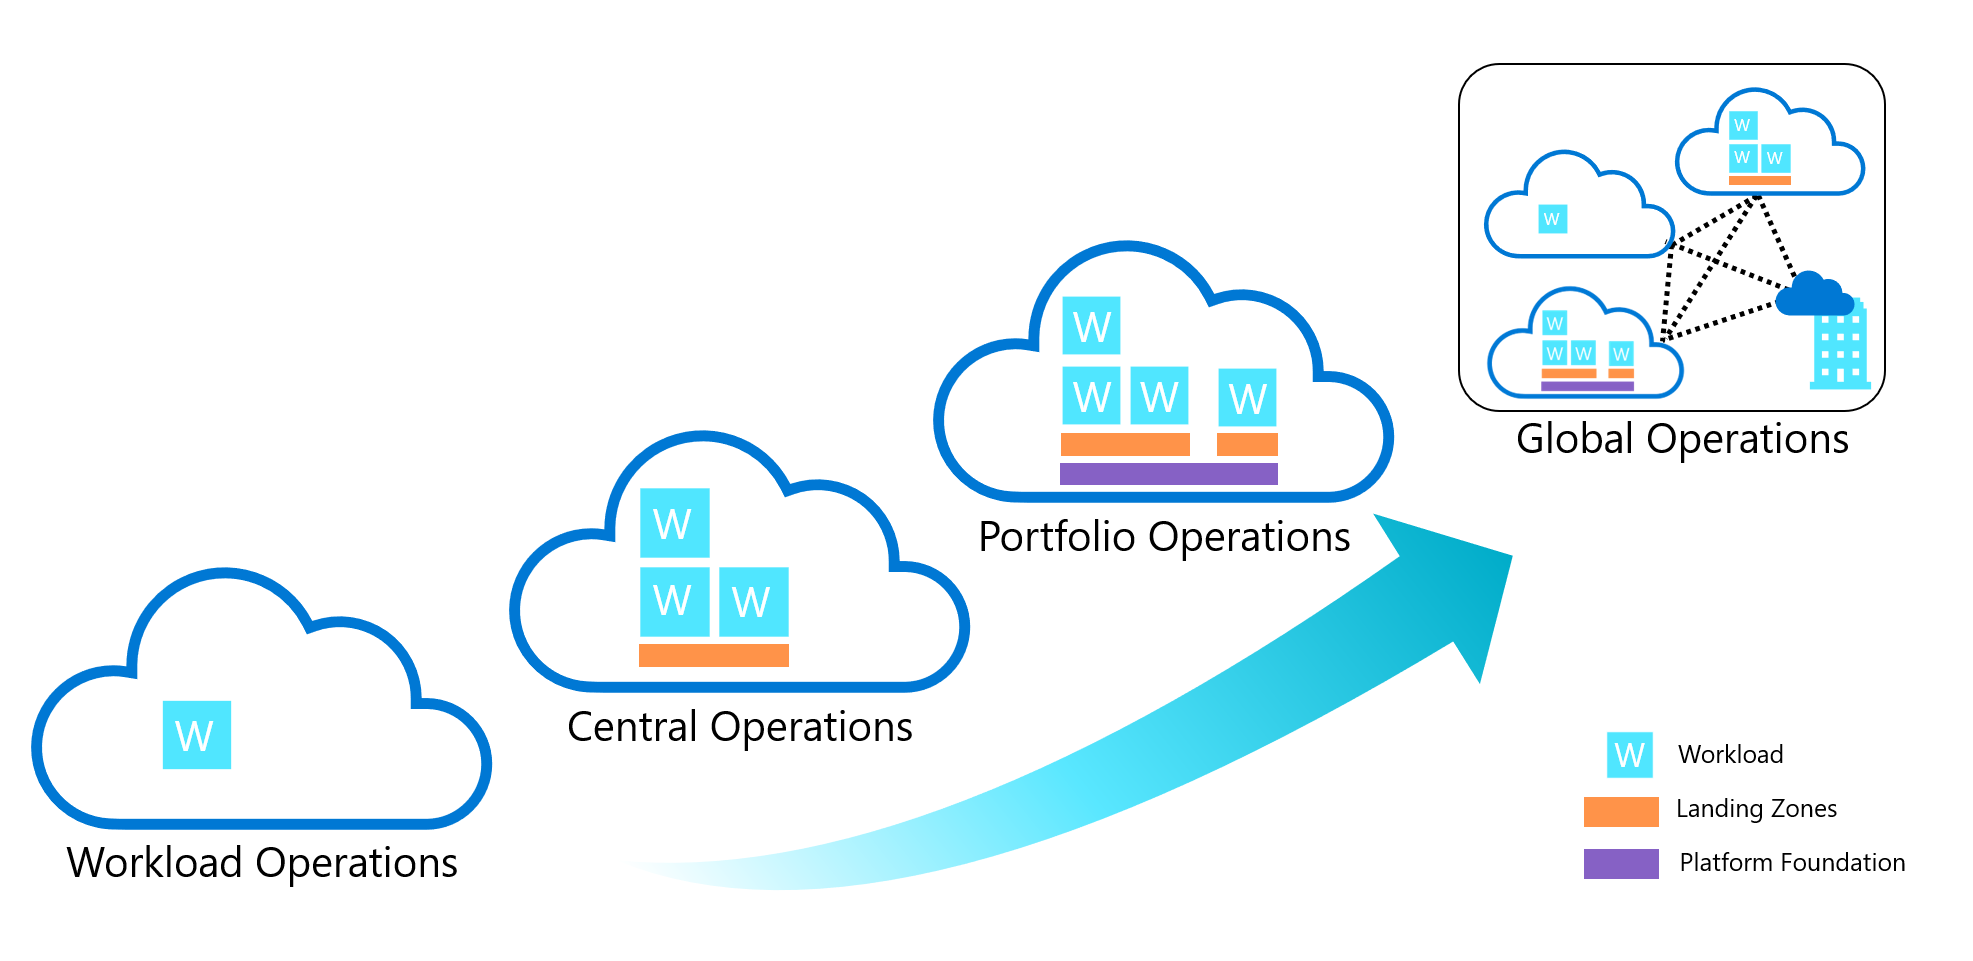
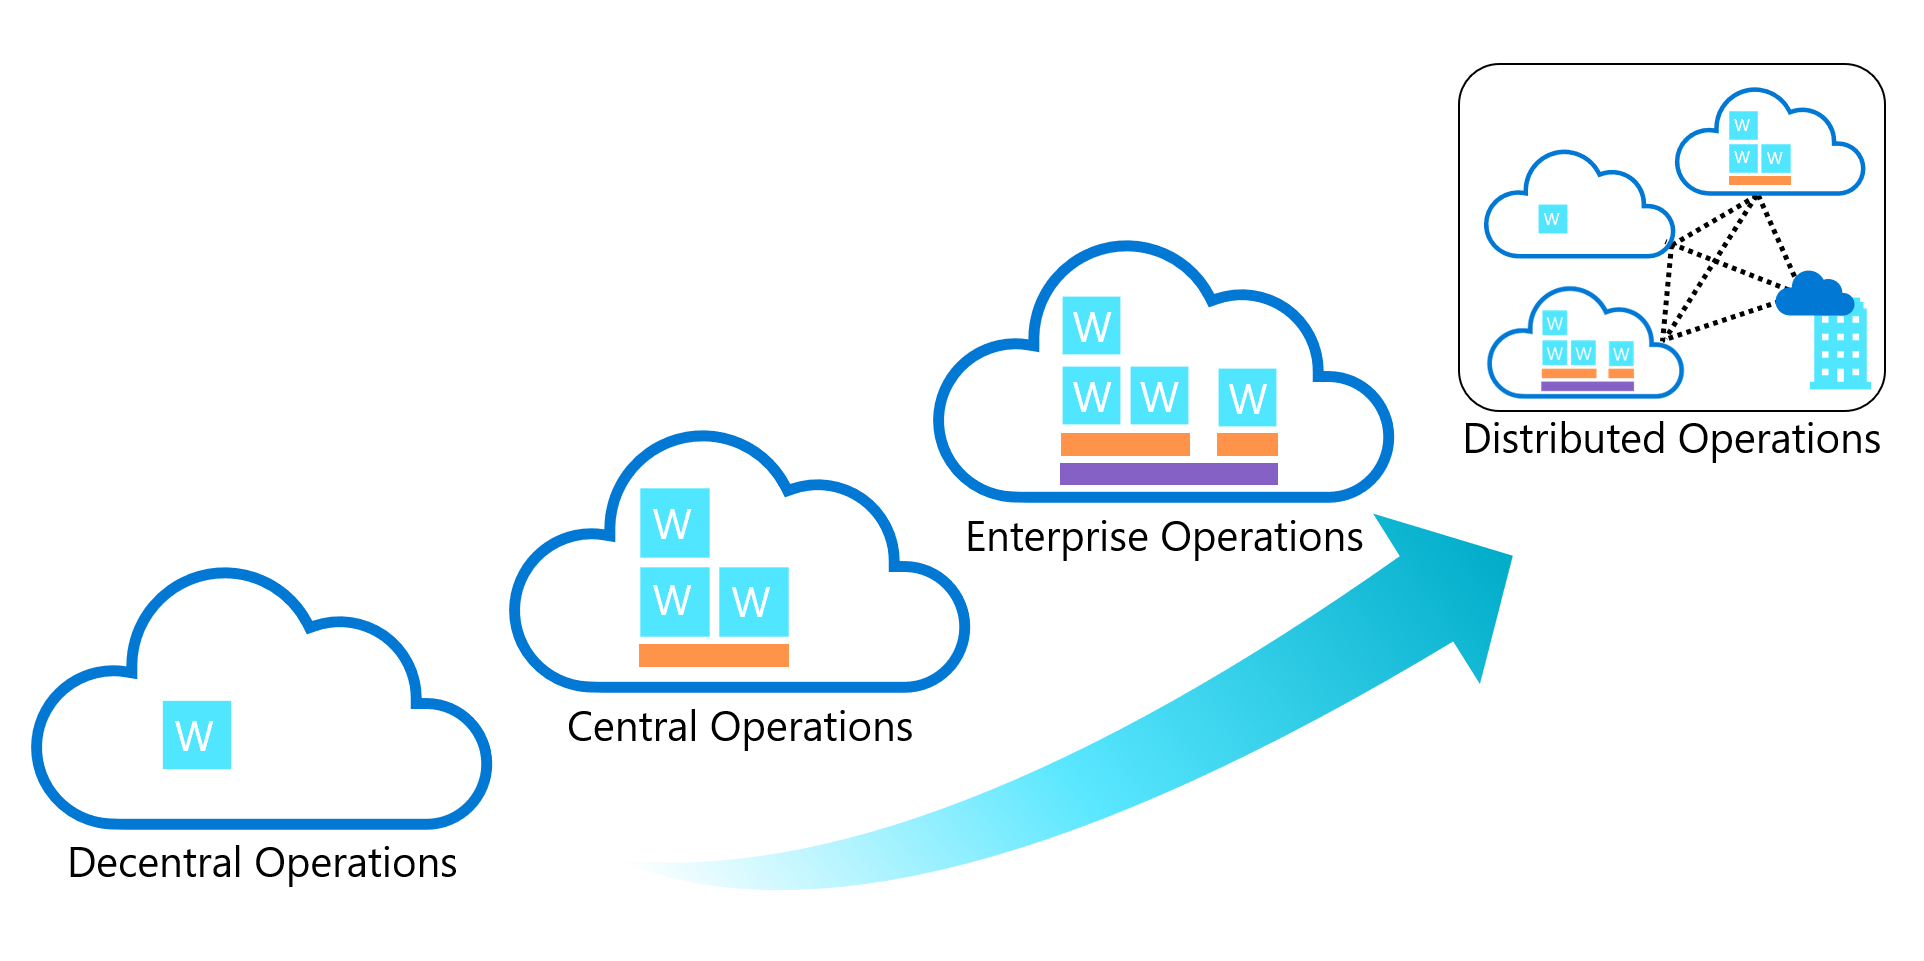
compare models

diff --git a/docs/operating-model/compare-common-operating-models.md b/docs/operating-model/compare-common-operating-models.md
@@ -1,0 +1,140 @@
+---
+title: "Review common examples of cloud operating models"
+description: See how other companies have implemented their cloud operating model & what guidance can support your efforts.
+author: BrianBlanchard
+ms.author: brblanch
+ms.date: 07/20/2020
+ms.topic: conceptual
+ms.service: cloud-adoption-framework
+ms.subservice: overview
+ms.custom: operating-model
+---
+
+# Common cloud operating models
+
+Operating models are unique and personal to the business they support, based on their current requirements and constraints. But, this uniqueness shouldn't suggest that operating models are "snowflakes". There are a few common patterns among customer operating models. This article outlines the four most common patterns.
+
+## Operating model comparison
+
+The following image maps common operating models based on the range of complexity from least complex (decentralized) to most complex (global operations). The tables below compares the same operating models based on relative value of a few other attributes.
+
+![Degrees of operating model complexity](../_images/operating-model/operating-model-complexity.png)
+
+### Priorities or Scope
+
+Cloud operating model is primarily driven by two factors: Strategic priorities (or motivations) and the scope of the portfolio to be managed.
+
+Strategic priorities or motivations: Each operating model is capable of delivering the typical [strategic motivations for cloud adoption](../strategy/motivations.md). However, some operating models tend to make it a little easier to realize some specific motivations.
+
+[Portfolio Scope](../reference/fundamental-concepts/hosting-hierarchy.md): The portfolio scope row below identifies the largest scope that a specific operating model is designed to support. Example: Centralized operations is designed for a small number of landing zones. But that operating model decision could inject operational risks for an organization which is attempting to manage a large, complex portfolio which could require a large number of landing zones or variable complexity in landing sone design.
+
+||Decentralized  |Centralized  |Enterprise          |Complex|
+|---------              |---------      |---------    |---------          |---------|
+|Strategic priority|Innovation|Control|Democratization|Integration|
+|Portfolio scope|Workload|Landing zone |Cloud Platform|Full Portfolio|
+|Workload environment|High complexity|Low complexity|Medium complexity|Medium or variable complexity|
+|Landing zone|N/A|High complexity|Medium to Low complexity|Low complexity|
+|Foundation utilities|N/A|N/A or Low support|Centralized & more support|Most support|
+|Cloud foundation|N/A|N/A|Hybrid, provider specific, or regional foundations|Distributed and synchronized|
+
+### Accountability alignment
+
+Many teams and individuals will be responsible for supporting different functions. But each of the common operating models focuses final accountability for decisions and their outcomes on one team or one individual. This impacts how the operating model is funded & what level of support is provided for each function.
+
+||Decentralized  |Centralized  |Enterprise          |Complex|
+|---------              |---------      |---------    |---------          |---------|
+|Business alignment|[Workload team](../organize/cloud-adoption.md)|[Central Cloud strategy](../organize/cloud-strategy.md)|[CCoE](../organize/cloud-center-of-excellence.md)|Variable - [Form a broad cloud strategy team?](../get-started/team/cloud-strategy.md)|
+|[Cloud operations](../organize/cloud-operations.md)|[Workload team](../organize/cloud-adoption.md)|[Central IT](../organize/central-it.md)|[CCoE](../organize/cloud-center-of-excellence.md)|Based on portfolio analysis - See [Business Alignment](../manage/considerations/business-alignment.md) and [Business commitments](../manage/considerations/commitment.md)|
+|[Cloud governance](../organize/cloud-governance.md)|[Workload team](../organize/cloud-adoption.md)|[Central IT](../organize/central-it.md)|[CCoE](../organize/cloud-center-of-excellence.md)|[Multiple layers of governance](../govern/guides/complex/multiple-layers-of-governance.md)|
+|[Cloud security](../organize/cloud-security.md)|[Workload team](../organize/cloud-adoption.md)|[Security Operations Center (SOC)](../organize/cloud-security-operations-center.md)|[CCoE](../organize/cloud-center-of-excellence.md) + [SOC](../organize/cloud-security-operations-center.md)|Mixed - See [Define a security strategy](../strategy/define-security-strategy.md)|
+|[Cloud automation & devops](../organize/cloud-automation.md)|[Workload team](../organize/cloud-adoption.md)|[Central IT](../organize/central-it.md) or N/A|[CCoE](../organize/cloud-center-of-excellence.md)|Based on portfolio analysis - See [Business Alignment](../manage/considerations/business-alignment.md) and [Business commitments](../manage/considerations/commitment.md)|
+
+### Accelerate operating model implementation in Azure
+
+As described in the prior article in this series, [Defining your operating model](./methodologies.md), each methodology in the cloud adoption framework provides a structured path to iteratively developing each aspect of your operating model. Following the most relevant methodology will help you overcome blockers to adoption that stem from gaps in the cloud operating model.
+
+But there are ways to accelerate your operating model implementation, as outlined in the table below.
+
+||Decentralized  |Centralized  |Enterprise          |Complex|
+|---------              |---------      |---------    |---------          |---------|
+|Starting point|[Well-Architected Framework (WAF)](/azure/architecture/framework/)|Azure landing zones: [Start Small options](../ready/landing-zone/implementation-options.md)|Azure landing zones: [CAF enterprise-scale](../ready/enterprise-scale/implementation.md)|[Business Alignment](../manage/considerations/business-alignment.md)|
+|Iterations|A focus on workloads will allow the team to iterate within WAF|The start small option will require additional iteration on each methodology, but that can be done as cloud adoption efforts mature.|As illustrated by the reference implementations, future iterations will typical focus on minor configuration additions|After a portfolio review consider following the paths for centralized operations or enterprise operations, based on the most common needs across the portfolio.|
+
+> [!WARNING]
+> Below is a potential TODO. First, we will solicit feedback on the operating model comparison tables above to see if that is sufficient
+
+## Decentralized operations
+
+![Decentralized operations](../_images/operating-model/decentralized-operations.png)
+
+Operations is always complex. But, by limiting the scope of operations to one workload or a small collections of workloads, that complexity can be controlled. As such, decentralized operations is the least complex of the common operating models. In this form of operations, all workloads are operated independently by dedicated workload teams.
+
+**Advantages:**
+
+- Cost of operations can be easily mapped to the a single business unit.
+- Decisions that impact operations are only concerned with the needs of that workload.
+- Many in the devops community would argue that this is the purest form of operations because of the tighter operational scope.
+- Typically, this form of operations is highly dependent on automation to minimize overhead. This allows for faster deployments and shorter feedback cycles during development.
+- Since there are no dependencies on other workloads or central operations, this operating model could reduce barriers to innovation.
+
+**Disadvantages:**
+
+- Lack of centralized supporting teams means that the workload team is entirely responsible for governance, security, operations, and change management.
+- Since the workload team is less likely to have specialized teams dedicated to central IT functions, this operating model is viewed as a high risk option by some organizations, especially companies which are required to follow 3rd party compliance requirements.
+- At scale, it can also be a costly model, since each workload would likely have duplication in deployed assets and staffing assignments.
+
+**Guidance:** Decentralized operations are limited to workload level decisions. The Microsoft Azure Well-Architected Framework is designed to support the decisions made within that scope. The processes and guidance within the Cloud Adoption Framework are likely to add overhead that are not required by decentralized operations.
+
+## Centralized operations
+
+![Centralized operations](../_images/operating-model/centralized-operations.png)
+
+TODO Summary, Pros, Cons, Guidance
+
+
+**Advantages:**
+
+- 
+
+**Disadvantages:**
+
+- 
+
+**Guidance:** 
+
+## Enterprise operations
+
+![Enterprise operations](../_images/operating-model/enterprise-operations.png)
+
+TODO Summary, Pros, Cons, Guidance
+
+
+**Advantages:**
+
+- 
+
+**Disadvantages:**
+
+- 
+
+**Guidance:** 
+
+## Distributed operations
+
+![Distributed operations](../_images/operating-model/distributed-operations.png)
+
+TODO Summary, Pros, Cons, Guidance
+
+**Advantages:**
+
+- 
+
+**Disadvantages:**
+
+- 
+
+**Guidance:** 
+
+## Next steps
+
+TODO: Next Steps

diff --git a/docs/organize/organization-structures.md b/docs/organize/organization-structures.md
@@ -43,12 +43,16 @@ Most companies start with little more than a _cloud adoption team_. But we recom
 
 The nucleus of all cloud adoption efforts is the cloud adoption team. This team drives the technical changes that enable adoption. Depending on the objectives of the adoption effort, this team may include a diverse range of team members who handle a broad set of technical and business tasks.
 
+![Cloud adoption team only](../_images/ready/org-ready-adoption-only.png)
+
 For small-scale or early-stage adoption efforts, this team might be as small as one person. In larger-scale or late-stage efforts, it's common to have several cloud adoption teams, each with around six engineers. Regardless of size or tasks, the consistent aspect of any cloud adoption team is that it provides the means to onboarding solutions into the cloud. For some organizations, this may be a sufficient organizational structure. The [cloud adoption team](./cloud-adoption.md) article provides more insight into the structure, composition, and function of the cloud adoption team.
 
 > [!WARNING]
 > Operating with **only** a cloud adoption team (or multiple cloud adoption teams) is considered an antipattern and should be avoided. At a minimum, consider the [MVP best practice](#best-practice-minimum-viable-product-mvp).
 
 ## Best practice: Minimum viable product (MVP)
+
+![Best practice: Minimum viable product organization of Adoption team and Governance team to create balance](../_images/ready/org-ready-best-practice.png)
 
 We recommend that you have two teams to create balance across cloud adoption efforts. These two teams are responsible for various functions throughout the adoption effort.
 
@@ -61,6 +65,8 @@ The following sections describe a fully staffed, proven organizational structure
 
 ## Central IT team
 
+![Central IT team](../_images/ready/org-ready-central-it.png)
+
 As adoption scales, the cloud governance team may struggle to keep pace with the flow of innovation from multiple cloud adoption teams. This is especially true in environments that have heavy compliance, operations, or security requirements. At this stage, it is common for companies to shift cloud responsibilities to an existing Central IT team. If that team can reassess tools, processes, and people to better support cloud adoption at scale, then including the central IT team can add significant value. Bringing in subject matter experts from operations, automation, security, and administration to modernize the central IT team can drive effective operational innovations.
 
 Unfortunately, the central IT team phase can be one of the riskiest phases of organizational maturity. The Central IT team must come to the table with a strong growth mindset. If the team views the cloud as an opportunity to grow and adapt, then it can provide great value throughout the process. But if the Central IT team views cloud adoption primarily as a threat to their existing model, then the Central IT team becomes an obstacle to the cloud adoption teams and the business objectives they support. Some Central IT teams have spent months or even years attempting to force the cloud into alignment with on-premises approaches, with only negative results. The cloud doesn't require that everything change within the central IT team, but it does require significant change. If resistance to change is prevalent within the Central IT team, this phase of maturity can quickly become a cultural antipattern.
@@ -69,11 +75,15 @@ Cloud adoption plans heavily focused on platform as a service (PaaS), DevOps, or
 
 ## Strategic alignment
 
+![Strategic alignment](../_images/ready/org-ready-strategy-alignment.png)
+
 As the investment in cloud adoption grows and business values are realized, business stakeholders often become more engaged. A defined cloud strategy team, as the following image illustrates, aligns those business stakeholders to maximize the value realized by cloud adoption investments.
 
 When maturity happens organically, as a result of IT-led cloud adoption efforts, strategic alignment is usually preceded by a governance or Central IT team. When cloud adoption efforts are lead by the business, the focus on operating model and organization tends to happen earlier. Whenever possible, business outcomes and the cloud strategy team should both be defined early in the process.
 
 ## Operational alignment
+
+![Operational alignment](../_images/ready/org-ready-operations-aligned.png)
 
 Realizing business value from cloud adoption efforts requires stable operations. Operations in the cloud may require new tools, processes, or skills. When stable IT operations are required to achieve business outcomes, it's important to add a defined cloud operations team, as shown here.
 
@@ -81,9 +91,11 @@ Cloud operations can be delivered by the existing IT operations roles. But it's 
 
 ## Cloud center of excellence
 
+![Cloud  Center of Excellence (CCoE)](../_images/ready/org-ready-ccoe.png)
+
 At the highest state of maturity, a cloud center of excellence aligns teams around a modern cloud-first operating model. This approach provides centralized IT functions like governance, security, platform, and automation.
 
-The primary difference between this structure and the Central IT team structure above is a focus on self-service. The teams in this structure organize with the intent of delegating control as much as possible. Aligning governance and compliance practices to cloud-native solutions creates guardrails and protection mechanisms. Unlike the Central IT team model, the cloud-native approach maximizes innovation and minimizes operational overhead. For this model to be adopted, mutual agreement to modernize IT processes will be required from business and IT leadership. This model is unlikely to occur organically and often requires executive support.
+The primary difference between this structure and the Central IT team structure above is a strong focus on self-service and democratization. The teams in this structure organize with the intent of delegating control as much as possible. Aligning governance and compliance practices to cloud-native solutions creates guardrails and protection mechanisms. Unlike the Central IT team model, the cloud-native approach maximizes innovation and minimizes operational overhead. For this model to be adopted, mutual agreement to modernize IT processes will be required from business and IT leadership. This model is unlikely to occur organically and often requires executive support.
 
 ## Next steps
 

diff --git a/docs/strategy/motivations.md b/docs/strategy/motivations.md
@@ -25,7 +25,7 @@ Business transformations that are supported by cloud adoption can be driven by v
 
 | Critical business events | Migration | Innovation |
 |---|---|---|
-| Datacenter exit <br><br> Merger, acquisition, or divestiture <br><br> Reduction in capital expenses <br><br> End of support for mission-critical technologies <br><br> Response to regulatory compliance changes <br><br> New data sovereignty requirements <br><br> Reduction of disruptions and improvement of IT stability <br><br> <br><br> | Cost savings <br><br> Reduction in vendor or technical complexity <br><br> Optimization of internal operations <br><br> Increase in business agility <br><br> Preparation for new technical capabilities <br><br> Scaling to meet market demands <br><br> Scaling to meet geographic demands <br><br> | Preparation for new technical capabilities <br><br> Building new technical capabilities <br><br> Scaling to meet market demands <br><br> Scaling to meet geographic demands <br><br> Improved customer experiences and engagements <br><br> Transformation of products or services <br><br> Market disruption with new products or services |
+| Datacenter exit <br><br> Merger, acquisition, or divestiture <br><br> Reduction in capital expenses <br><br> End of support for mission-critical technologies <br><br> Response to regulatory compliance changes <br><br> New data sovereignty requirements <br><br> Reduction of disruptions and improvement of IT stability <br><br> <br><br> | Cost savings <br><br> Reduction in vendor or technical complexity <br><br> Optimization of internal operations <br><br> Increase in business agility <br><br> Preparation for new technical capabilities <br><br> Scaling to meet market demands <br><br> Scaling to meet geographic demands <br><br> Integration of a complex IT portfolio <br><br> | Preparation for new technical capabilities <br><br> Building new technical capabilities <br><br> Scaling to meet market demands <br><br> Scaling to meet geographic demands <br><br> Improved customer experiences and engagements <br><br> Transformation of products or services <br><br> Market disruption with new products or services <br><br> Democratization &/or self-service environments  |
 
 ## Classify your motivations
 

diff --git a/docs/organize/cloud-operations.md b/docs/organize/cloud-operations.md
@@ -23,6 +23,9 @@ The skills needed to provide cloud operations functions can be provided by:
 - Business application operations teams
 - DevOps teams
 
+> [!IMPORTANT]
+> The individuals or teams accountable for cloud operations are generally responsible for making reactive changes to configuration during remediation. They are also likely to be responsible for proactive configuration changes to minimize operational disruptions. Depending on the organizations cloud operating model, those changes could be delivered via infrastructure-as-code, devops pipelines, or direct configuration in the portal. Since operations team will likely have elevated permissions, it is extremely important that those who fill this role are following [identity and access control best practices](/azure/security/benchmarks/security-control-identity-access-control) to minimize unintended access or production changes.
+
 ## Preparation
 
 - [Manage resources in Azure](https://docs.microsoft.com/learn/paths/manage-resources-in-azure): Learn how to work through the Azure CLI and web portal to create, manage, and control cloud-based resources.
